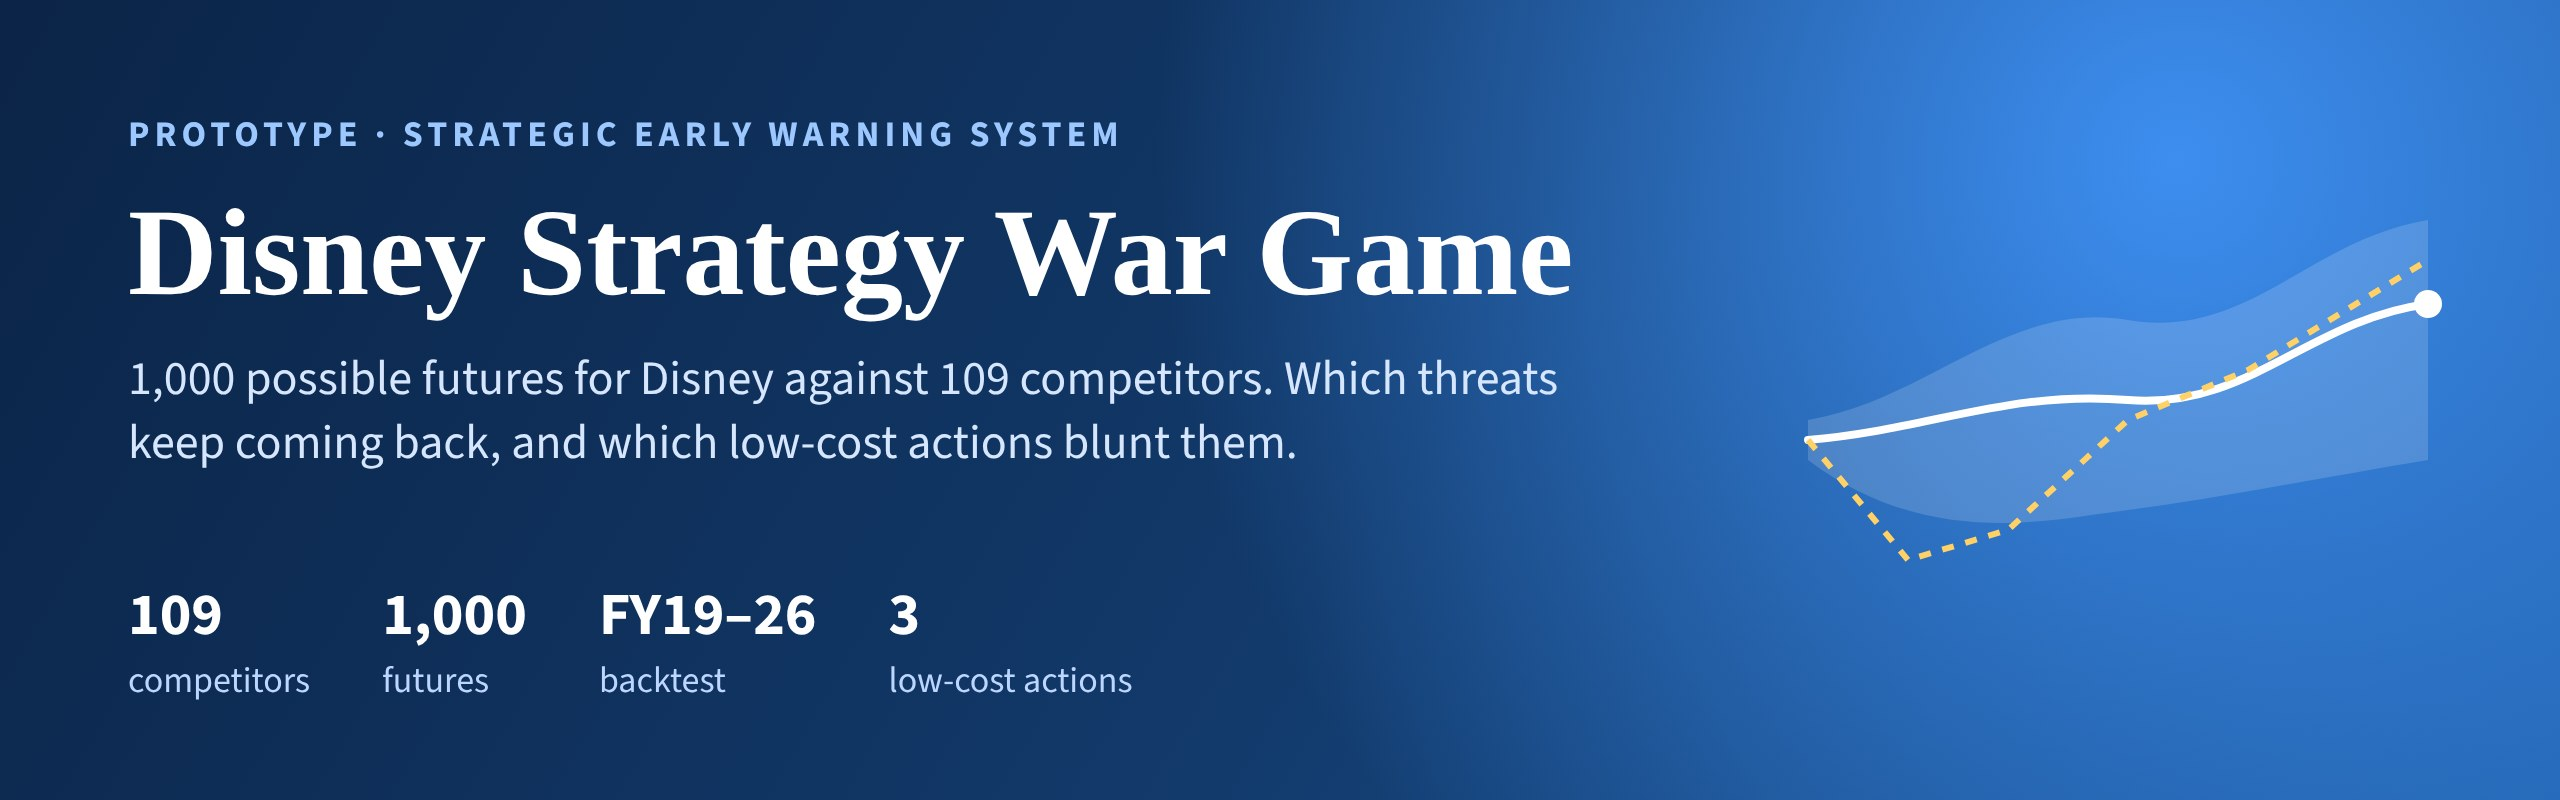
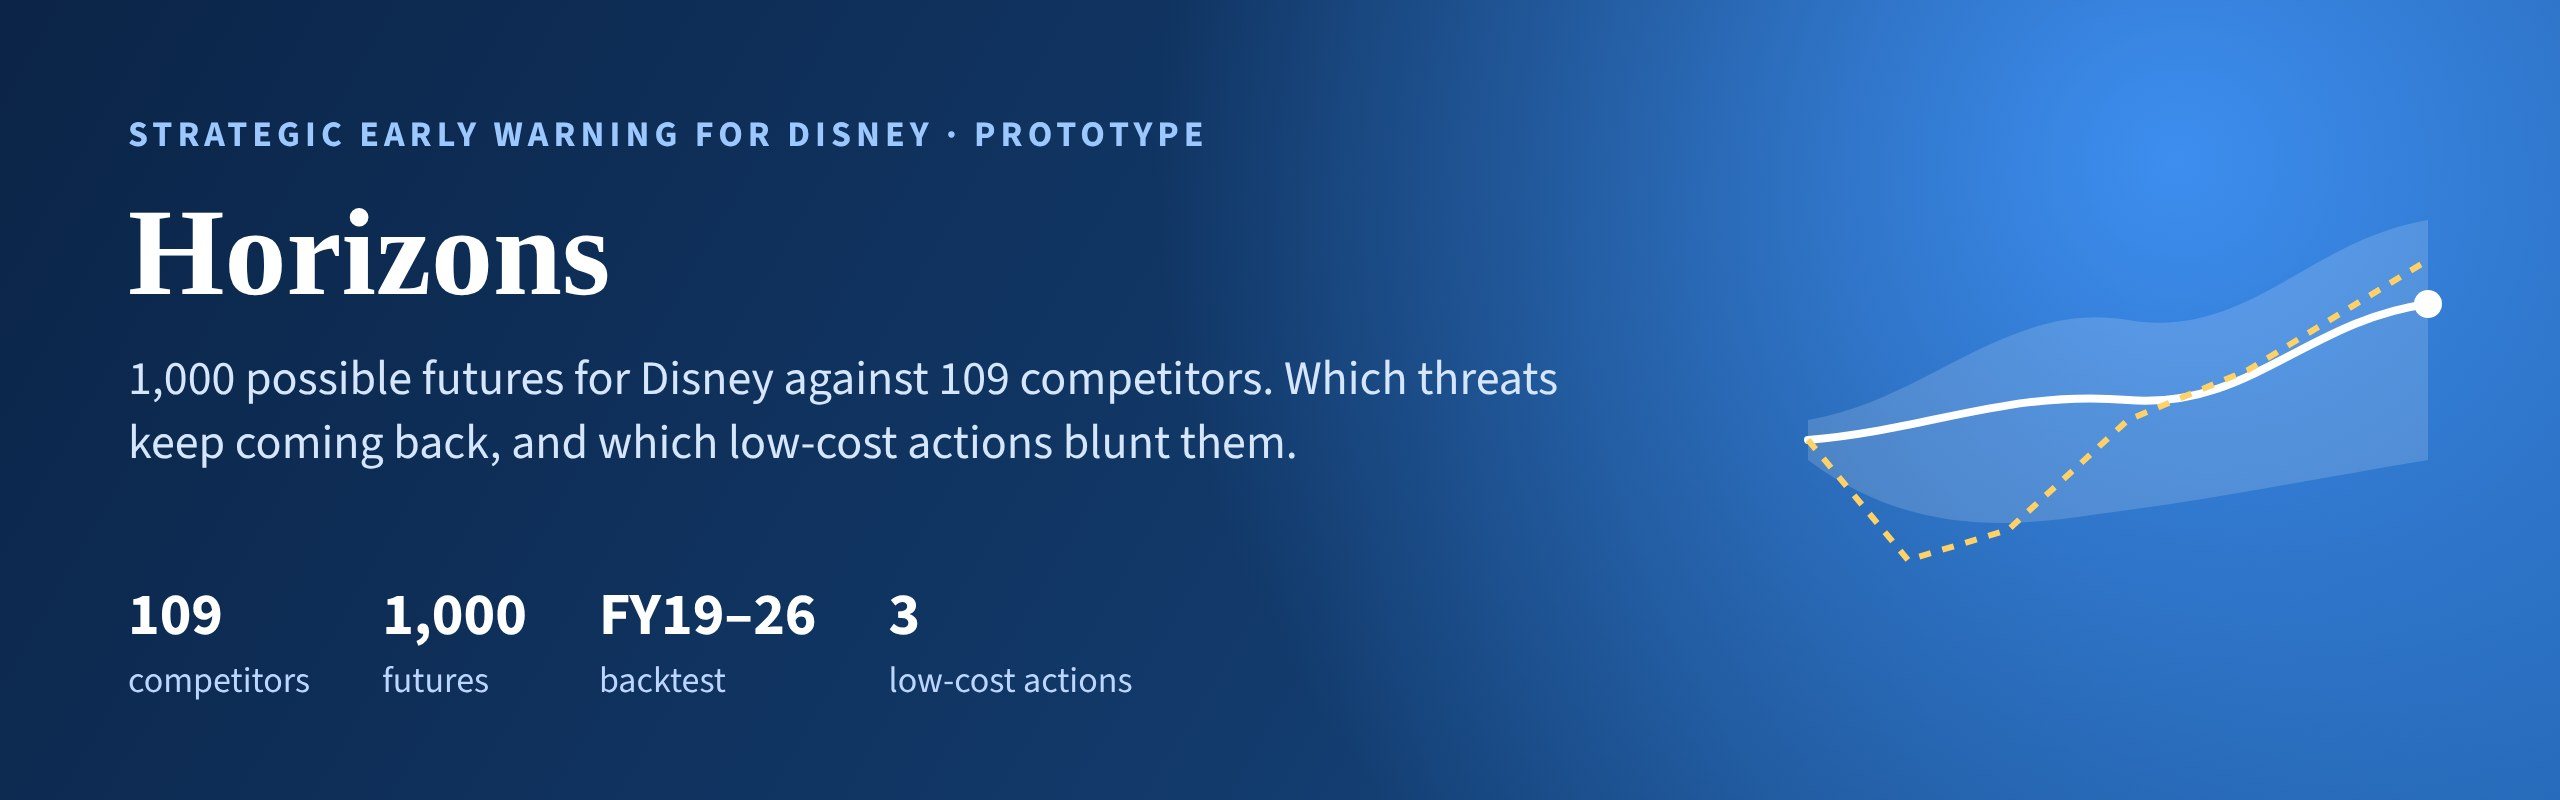
Rebrand to Horizons
Named for the EPCOT attraction that showed guests possible futures.

Claude-Session: https://claude.ai/code/session_01DCdyp5mspmP87AMkEPVj5n

Changed region(s): [[0.0625, 0.25, 0.625, 0.4062], [0.0312, 0.1562, 0.4688, 0.1875]]

diff --git a/index.html b/index.html
@@ -3,11 +3,11 @@
 <head>
 <meta charset="utf-8">
 <meta name="viewport" content="width=device-width, initial-scale=1">
-<title>Disney Strategy War Game</title>
-<meta name="description" content="Prototype strategic early warning system: simulates Disney against 109 competitors over FY27–FY36, finds the threats that keep showing up, and tests cheap actions against them. By Jake Schmidt.">
+<title>Horizons</title>
+<meta name="description" content="Horizons, a prototype strategic early warning system: simulates Disney against 109 competitors over FY27–FY36, finds the threats that keep showing up, and tests cheap actions against them. By Jake Schmidt.">
 <meta name="author" content="Jake Schmidt">
 <meta property="og:type" content="website">
-<meta property="og:title" content="Disney Strategy War Game">
+<meta property="og:title" content="Horizons: a strategic early warning system for Disney">
 <meta property="og:description" content="1,000 possible futures for Disney vs. 109 competitors, the threats that keep showing up, and three low-cost actions that blunt them. Prototype by Jake Schmidt.">
 <meta property="og:url" content="https://jrs10039-code.github.io/strategy-war-game/">
 <meta property="og:image" content="https://jrs10039-code.github.io/strategy-war-game/og.png">
@@ -178,7 +178,7 @@ textarea { width: 100%; font-family: ui-monospace, Menlo, monospace; font-size: 
   <div class="wrap">
     <div class="brand">
       <svg width="26" height="26" viewBox="0 0 32 32" aria-hidden="true"><rect width="32" height="32" rx="7" fill="currentColor"/><path d="M6 22 L12 15 L17 19 L26 9" stroke="var(--surface)" stroke-width="3" fill="none" stroke-linecap="round" stroke-linejoin="round"/></svg>
-      Disney Strategy War Game
+      <span>Horizons <span style="font-weight:500;color:var(--ink-3)">· Strategic early warning for Disney</span></span>
     </div>
     <div class="byline">
       <span>Prototype by <b>Jake Schmidt</b> · November 2026</span>

diff --git a/run.py b/run.py
@@ -13,7 +13,7 @@ from engine.simulator import load_config, run_set, summarize, themes, backtest_c
 
 
 def main() -> None:
-    ap = argparse.ArgumentParser(description="Strategy war game: Monte Carlo of Disney vs. competitors")
+    ap = argparse.ArgumentParser(description="Horizons: Monte Carlo of Disney vs. competitors")
     ap.add_argument("--config", default=str(DEFAULT_CONFIG))
     ap.add_argument("--playbook", default=None, help="Playbook id for the themes table (A-F)")
     ap.add_argument("--runs", type=int, default=None)

diff --git a/engine/simulator.py b/engine/simulator.py
@@ -1,4 +1,4 @@
-"""Monte Carlo war-game engine.
+"""Horizons: Monte Carlo war-gaming engine.
 
 Python reference implementation of the model behind the browser prototype
 (index.html). Same assumptions file, same logic. It is the piece a strategy

diff --git a/README.md b/README.md
@@ -1,8 +1,8 @@
-<p align="center"><a href="https://jrs10039-code.github.io/strategy-war-game/"><img src="docs/img/banner.jpg" alt="Disney Strategy War Game" width="100%"></a></p>
+<p align="center"><a href="https://jrs10039-code.github.io/strategy-war-game/"><img src="docs/img/banner.jpg" alt="Horizons: a strategic early warning system for Disney" width="100%"></a></p>
 
 <p align="center"><a href="https://jrs10039-code.github.io/strategy-war-game/"><img src="docs/img/launch.png" alt="Launch the simulator" height="56"></a></p>
 
-<p align="center"><b>Runs in your browser. No login, no install.</b><br>Prototype by Jake Schmidt · November 2026 · Illustrative draft assumptions, not a forecast</p>
+<p align="center"><b>Runs in your browser. No login, no install.</b><br><b>Horizons</b> is a prototype by Jake Schmidt · November 2026<br><sub>Named for the EPCOT attraction (1983–1999) that showed guests possible futures and let them choose their ending.</sub><br> · Illustrative draft assumptions, not a forecast</p>
 
 ---
 

diff --git a/docs/methodology.md b/docs/methodology.md
@@ -1,6 +1,6 @@
 # Methodology
 
-How the Strategy War Game works, how it is calibrated, how it scores against history, and what it cannot do yet.
+How Horizons works, how it is calibrated, how it scores against history, and what it cannot do yet.
 
 ## 1. What it is for
 
